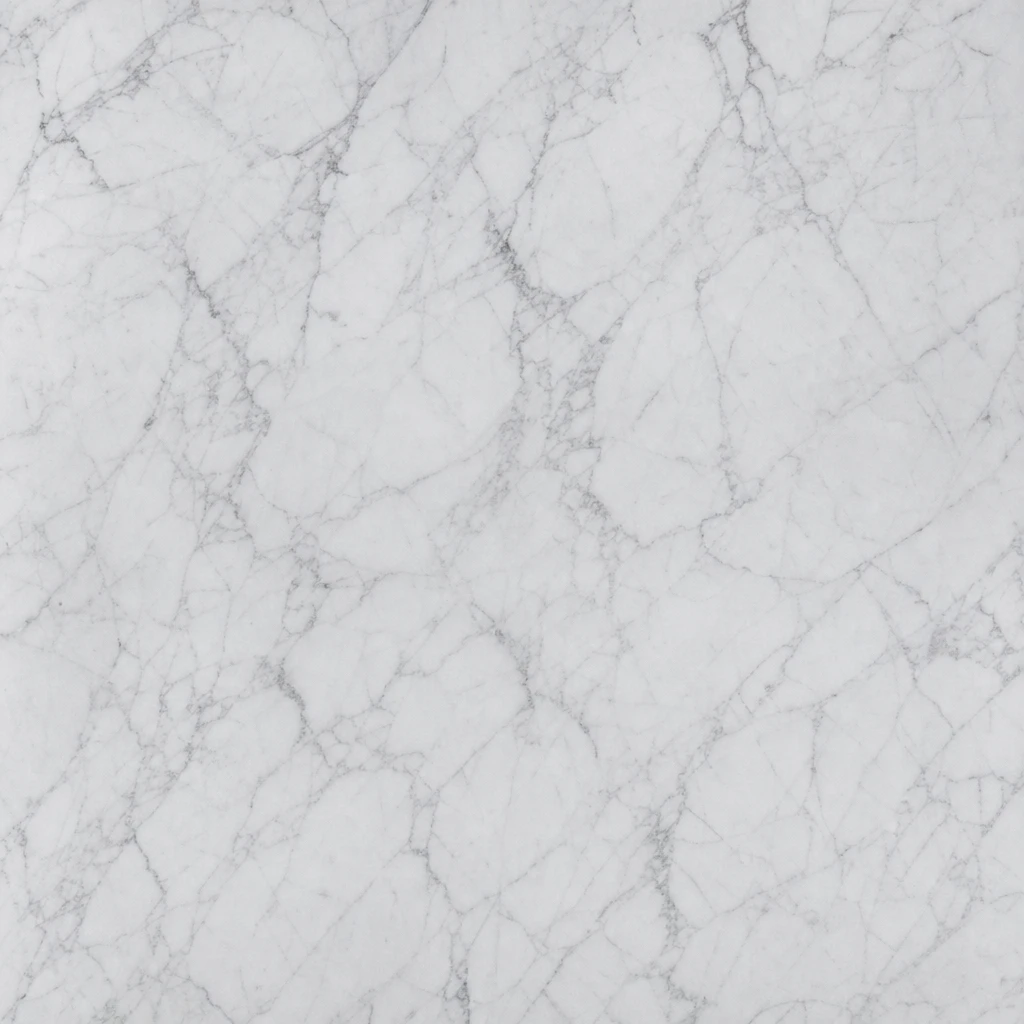
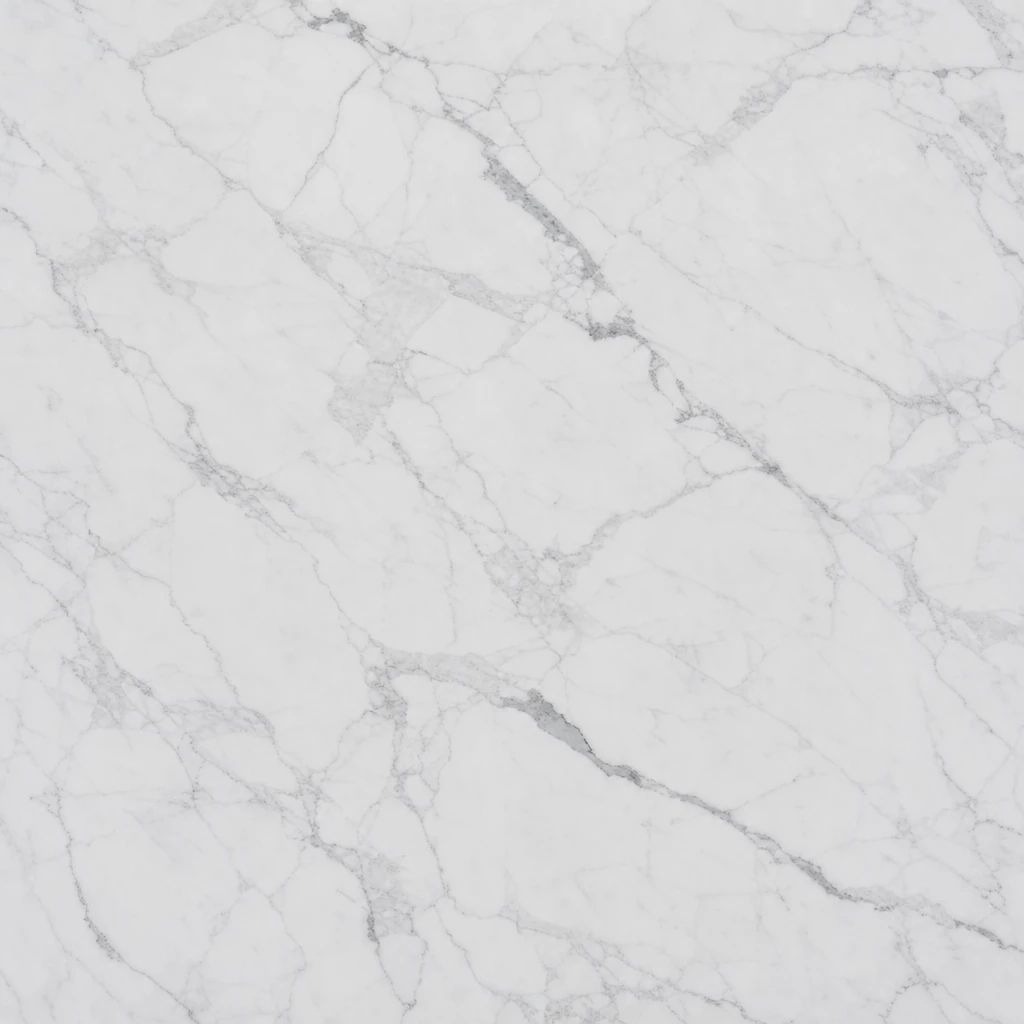
feat(product): add new floor options and tooltips in AR viewer, update styling for improved layout

diff --git a/static/development/components/pages/product/ar-viewer.js b/static/development/components/pages/product/ar-viewer.js
@@ -8,10 +8,16 @@ const FLOOR_BASE = "/static/ar/floors/";
 const FLOOR_PRESETS = [
   { id: "white", label: "Білий", src: null },
   { id: "oak-light", label: "Світлий дуб", src: FLOOR_BASE + "oak-light.webp" },
+  { id: "oak-natural", label: "Натуральний дуб", src: FLOOR_BASE + "oak-natural.webp" },
+  { id: "oak-bleached", label: "Вибілений дуб", src: FLOOR_BASE + "oak-bleached.webp" },
   { id: "oak-grey", label: "Сірий дуб", src: FLOOR_BASE + "oak-grey.webp" },
-  { id: "herringbone", label: "Ялинка", src: FLOOR_BASE + "herringbone.webp" },
+  { id: "ash-light", label: "Світлий ясен", src: FLOOR_BASE + "ash-light.webp" },
+  { id: "laminate-beige", label: "Бежевий ламінат", src: FLOOR_BASE + "laminate-beige.webp" },
+  { id: "herringbone", label: "Ялинка", src: FLOOR_BASE + "herringbone.webp?v=3" },
   { id: "walnut-dark", label: "Горіх", src: FLOOR_BASE + "walnut-dark.webp" },
+  { id: "wenge", label: "Венге", src: FLOOR_BASE + "wenge.webp" },
   { id: "marble-white", label: "Мармур", src: FLOOR_BASE + "marble-white.webp" },
+  { id: "tile-cream", label: "Кремова плитка", src: FLOOR_BASE + "tile-cream.webp" },
   { id: "concrete", label: "Бетон", src: FLOOR_BASE + "concrete.webp" },
 ];
 
@@ -37,8 +43,8 @@ const DEFAULT_FOV = 32;
 const SCENE_PITCH_MAX = 86;
 const SCENE_SCALE_MIN = 0.55;
 const SCENE_SCALE_MAX = 2.4;
-const SCENE_YAW_SENS = 0.16;
-const SCENE_PITCH_SENS = 0.14;
+const SCENE_YAW_SENS = 0.38;
+const SCENE_PITCH_SENS = 0.32;
 const SCENE_FRICTION = 0.965;
 const SCENE_VEL_MIN = 0.015;
 const SCENE_LERP = 0.1;
@@ -429,6 +435,100 @@ function applyFloor(floorId, customSrc) {
   });
 }
 
+function positionFloorTooltip(anchor, tooltip) {
+  tooltip.style.display = "block";
+  tooltip.style.visibility = "hidden";
+  tooltip.style.left = "-9999px";
+  tooltip.style.top = "0";
+
+  const tooltipHeight = tooltip.offsetHeight;
+  const tooltipWidth = tooltip.offsetWidth;
+  const rect = anchor.getBoundingClientRect();
+  const gap = 8;
+  const margin = 12;
+
+  let top = rect.top - tooltipHeight - gap;
+  let left = rect.left + rect.width / 2 - tooltipWidth / 2;
+
+  if (top < margin) {
+    top = rect.bottom + gap;
+    tooltip.classList.add("is-below");
+  } else {
+    tooltip.classList.remove("is-below");
+  }
+
+  if (left + tooltipWidth > window.innerWidth - margin) {
+    left = window.innerWidth - tooltipWidth - margin;
+  }
+  if (left < margin) left = margin;
+
+  tooltip.style.left = `${left}px`;
+  tooltip.style.top = `${top}px`;
+  tooltip.style.visibility = "";
+}
+
+function bindFloorTooltip(anchor, label) {
+  if (!anchor || anchor.dataset.tooltipBound === "1") return;
+  anchor.dataset.tooltipBound = "1";
+
+  const tooltip = document.createElement("span");
+  tooltip.className = "product-ar-modal__floor-tooltip";
+  tooltip.setAttribute("role", "tooltip");
+  tooltip.textContent = label;
+  // Above modal (z-index 10050); body so fixed coords stay viewport-relative
+  document.body.appendChild(tooltip);
+
+  let hideTimer = 0;
+
+  const show = () => {
+    clearTimeout(hideTimer);
+    positionFloorTooltip(anchor, tooltip);
+    tooltip.classList.add("is-visible");
+  };
+  const hide = () => {
+    clearTimeout(hideTimer);
+    hideTimer = window.setTimeout(() => {
+      tooltip.classList.remove("is-visible");
+    }, 120);
+  };
+
+  // Always bind hover — modal is desktop-first; matchMedia alone was flaky
+  anchor.addEventListener("mouseenter", show);
+  anchor.addEventListener("mouseleave", hide);
+  tooltip.addEventListener("mouseenter", () => clearTimeout(hideTimer));
+  tooltip.addEventListener("mouseleave", hide);
+
+  anchor.addEventListener("focus", show);
+  anchor.addEventListener("blur", () => {
+    clearTimeout(hideTimer);
+    tooltip.classList.remove("is-visible");
+  });
+}
+
+/** CSS floor is preview-only — never part of the GLB / AR session. */
+function setPreviewFloorHidden(hidden) {
+  const wrap = document.querySelector(".product-ar-modal__viewer-wrap");
+  const floorEl = document.getElementById("product-ar-floor");
+  const floorsUi = document.getElementById("product-ar-floors");
+  const mv = modelViewerEl || document.querySelector(".product-ar-modal__mv");
+  if (!wrap || !floorEl) return;
+
+  if (hidden) {
+    wrap.classList.remove("has-floor");
+    floorEl.hidden = true;
+    floorEl.setAttribute("aria-hidden", "true");
+    if (floorsUi) floorsUi.style.visibility = "hidden";
+    if (mv) {
+      mv.style.background = "";
+      mv.style.setProperty("--poster-color", "#ffffff");
+    }
+  } else {
+    floorEl.hidden = false;
+    if (floorsUi) floorsUi.style.visibility = "";
+    applyFloor(currentFloorId);
+  }
+}
+
 function renderFloorPicker() {
   const list = document.getElementById("product-ar-floors-list");
   if (!list || list.dataset.ready === "1") return;
@@ -442,7 +542,6 @@ function renderFloorPicker() {
       "product-ar-modal__floor-chip" +
       (floor.id === currentFloorId ? " is-active" : "");
     btn.dataset.floorId = floor.id;
-    btn.title = floor.label;
     btn.setAttribute("aria-label", floor.label);
     if (floor.src) {
       btn.style.backgroundImage = `url("${floor.src}")`;
@@ -457,6 +556,7 @@ function renderFloorPicker() {
       applyFloor(floor.id);
     });
     list.appendChild(btn);
+    bindFloorTooltip(btn, floor.label);
   });
 }
 
@@ -464,6 +564,13 @@ function bindFloorUpload() {
   const input = document.getElementById("product-ar-floor-upload");
   if (!input || input.dataset.bound === "1") return;
   input.dataset.bound = "1";
+
+  const uploadLabel = input.closest(".product-ar-modal__floor-upload");
+  if (uploadLabel) {
+    uploadLabel.removeAttribute("title");
+    bindFloorTooltip(uploadLabel, "Завантажити свою підлогу");
+  }
+
   input.addEventListener("change", () => {
     const file = input.files && input.files[0];
     if (!file) return;
@@ -510,7 +617,14 @@ function ensureModelViewer() {
     modelViewerEl.appendChild(hiddenAr);
 
     modelViewerEl.addEventListener("ar-status", (e) => {
-      if (e.detail?.status === "failed") {
+      const status = e.detail?.status;
+      // AR shows only the GLB rug — strip CSS floor for the whole session
+      if (status === "session-started" || status === "object-placed") {
+        setPreviewFloorHidden(true);
+      } else if (status === "not-presenting" || status === "failed") {
+        setPreviewFloorHidden(false);
+      }
+      if (status === "failed") {
         setStatus(
           "Не вдалося відкрити AR. Перевірте підтримку пристрою або скористайтесь QR-кодом.",
           true
@@ -532,16 +646,19 @@ async function launchAr() {
   if (!mv) return;
 
   if (mv.canActivateAR) {
+    // Ensure AR / Scene Viewer / Quick Look get rug-only (no CSS floor)
+    setPreviewFloorHidden(true);
     try {
       await mv.activateAR();
     } catch (err) {
+      setPreviewFloorHidden(false);
       setStatus("Не вдалося відкрити AR на цьому пристрої.", true);
       showQr(currentSizeLabel);
     }
     return;
   }
 
-  // Desktop / no AR support → show QR
+  // Desktop / no AR support → show QR (preview floor stays)
   showQr(currentSizeLabel);
 }
 

diff --git a/static/development/components/pages/product/index.scss b/static/development/components/pages/product/index.scss
@@ -881,8 +881,9 @@ body.product-ar-modal-open {
     bottom: 12px;
     z-index: 3;
     display: flex;
+    flex-wrap: wrap;
     align-items: center;
-    gap: 10px;
+    gap: 6px;
     padding: 8px 10px;
     border-radius: 14px;
     background: rgba(255, 255, 255, 0.92);
@@ -892,7 +893,7 @@ body.product-ar-modal-open {
   }
 
   &__floors-label {
-    flex: 0 0 auto;
+    flex: 1 0 100%;
     font-family: "Futura PT Medium", sans-serif;
     font-size: 12px;
     color: #89817c;
@@ -900,23 +901,13 @@ body.product-ar-modal-open {
   }
 
   &__floors-list {
-    display: flex;
-    align-items: center;
-    gap: 8px;
-    min-width: 0;
-    overflow-x: auto;
-    padding: 2px 0;
-    scrollbar-width: none;
-
-    &::-webkit-scrollbar {
-      display: none;
-    }
+    display: contents;
   }
 
   &__floor-chip {
     flex: 0 0 auto;
-    width: 40px;
-    height: 40px;
+    width: 44px;
+    height: 44px;
     padding: 0;
     border: 2px solid transparent;
     border-radius: 10px;
@@ -947,8 +938,8 @@ body.product-ar-modal-open {
     display: inline-flex;
     align-items: center;
     justify-content: center;
-    width: 40px;
-    height: 40px;
+    width: 44px;
+    height: 44px;
     border-radius: 10px;
     border: 1px dashed #c9c2bb;
     background: #fff;
@@ -1126,18 +1117,18 @@ body.product-ar-modal-open {
       left: 8px;
       right: 8px;
       bottom: 8px;
-      gap: 8px;
+      gap: 5px;
       padding: 6px 8px;
     }
 
     &__floors-label {
-      display: none;
+      font-size: 11px;
     }
 
     &__floor-chip,
     &__floor-upload {
-      width: 34px;
-      height: 34px;
+      width: 38px;
+      height: 38px;
     }
 
     &__aside {
@@ -1151,7 +1142,8 @@ body.product-ar-modal-open {
   }
 }
 
-.product-slide__badge-tooltip {
+.product-slide__badge-tooltip,
+.product-ar-modal__floor-tooltip {
   position: fixed;
   z-index: 10000;
   width: max-content;
@@ -1178,13 +1170,23 @@ body.product-ar-modal-open {
     content: "";
     position: absolute;
     bottom: -4px;
-    left: 16px;
+    left: 50%;
     width: 7px;
     height: 7px;
+    margin-left: -3.5px;
     background: rgba(255, 255, 255, 0.98);
     border-right: 1px solid rgba(164, 108, 70, 0.18);
     border-bottom: 1px solid rgba(164, 108, 70, 0.18);
     transform: rotate(45deg);
+  }
+
+  &.is-below::after {
+    bottom: auto;
+    top: -4px;
+    border-right: none;
+    border-bottom: none;
+    border-left: 1px solid rgba(164, 108, 70, 0.18);
+    border-top: 1px solid rgba(164, 108, 70, 0.18);
   }
 
   &.is-visible {
@@ -1193,6 +1195,15 @@ body.product-ar-modal-open {
     transform: translateY(0);
     pointer-events: auto;
   }
+}
+
+.product-ar-modal__floor-tooltip {
+  z-index: 10100;
+}
+
+.product-slide__badge-tooltip::after {
+  left: 16px;
+  margin-left: 0;
 }
 
 .product_slider_main {

diff --git a/templates/product.html b/templates/product.html
@@ -741,7 +741,7 @@
         <div class="product-ar-modal__floors" id="product-ar-floors">
           <span class="product-ar-modal__floors-label">Підлога</span>
           <div class="product-ar-modal__floors-list" id="product-ar-floors-list"></div>
-          <label class="product-ar-modal__floor-upload" title="Завантажити свою підлогу" aria-label="Завантажити підлогу">
+          <label class="product-ar-modal__floor-upload" aria-label="Завантажити свою підлогу">
             <input type="file" id="product-ar-floor-upload" accept="image/*" hidden />
             <span aria-hidden="true">+</span>
           </label>